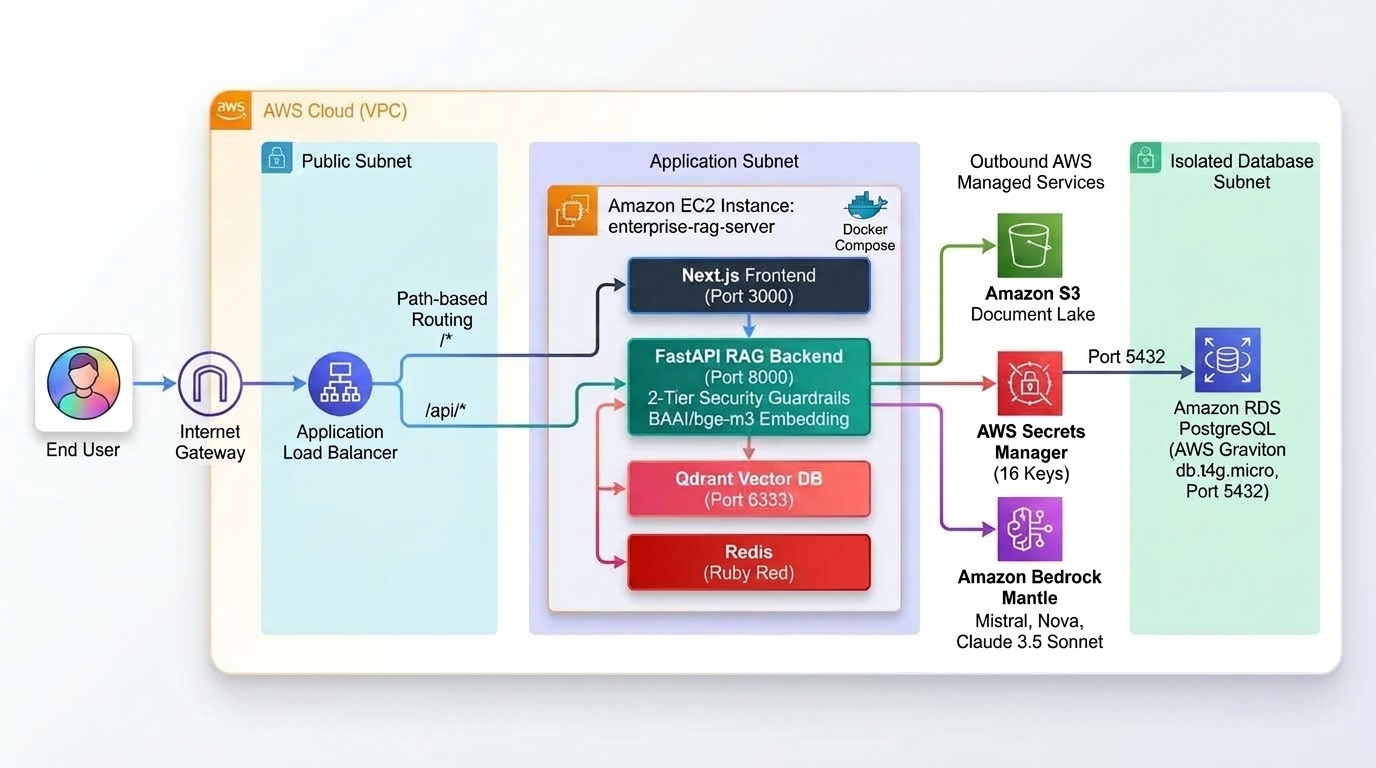
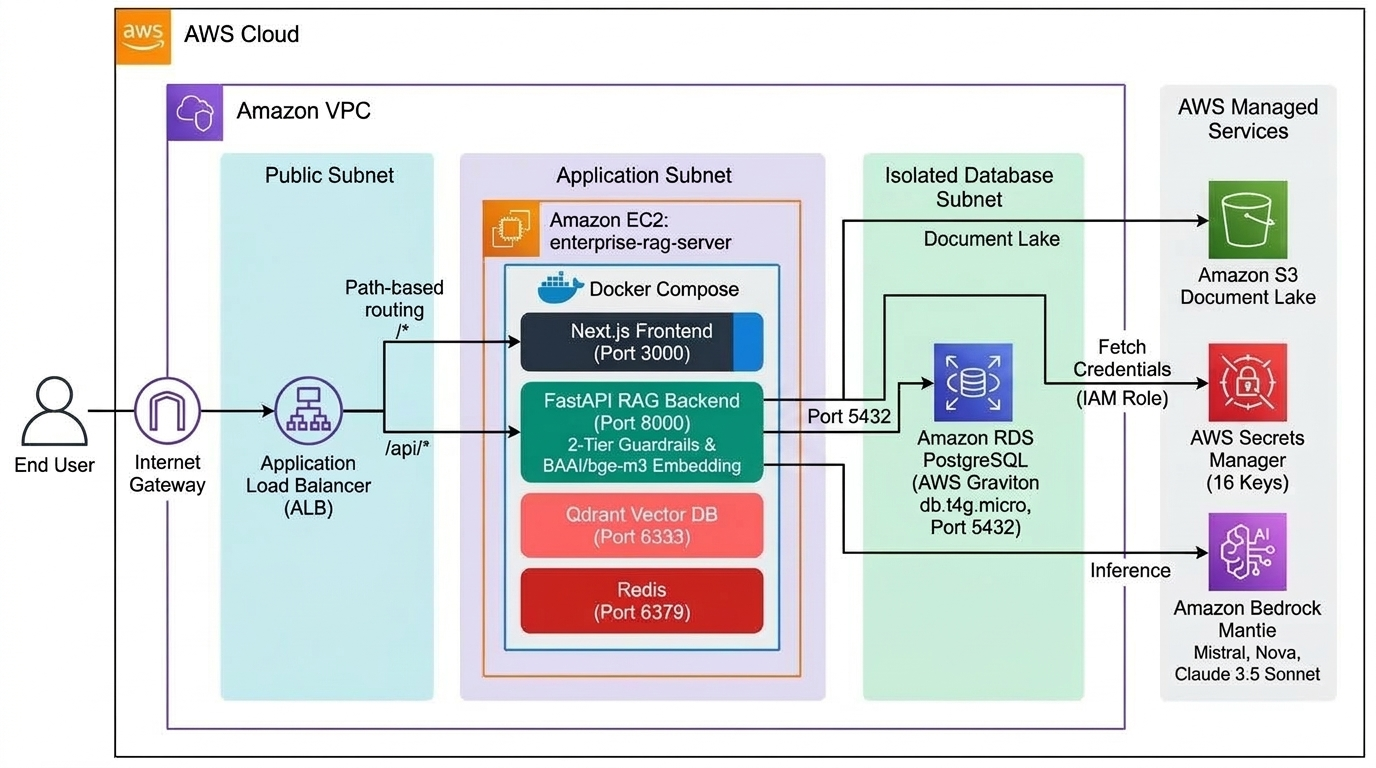
fix(diagram): correct VPC boundaries, separate RDS and Secrets Manager arrows, and align blog text with Qdrant and db.t4g.micro

diff --git a/content/5-Blogs/5.1-rag-enterprise-pipeline/_index.vi.md b/content/5-Blogs/5.1-rag-enterprise-pipeline/_index.vi.md
@@ -20,7 +20,7 @@ pre: " <b> 5.1. </b> "
 
 <div align="center" style="margin: 25px 0;">
   <img src="/images/enterprise_rag_full_architecture.png" alt="Sơ đồ Kiến trúc Đám mây AWS Toàn diện Enterprise RAG" style="width: 100%; max-width: 950px; border-radius: 8px; box-shadow: 0 6px 20px rgba(0,0,0,0.12); border: 1px solid #E2E8F0;" />
-  <p><em>Hình 5.1.1: Sơ đồ Kiến trúc Toàn diện NexusDoc AI: Máy chủ Amazon EC2 (enterprise-rag-server) vận hành Docker Compose (Next.js, FastAPI, Qdrant, Redis), Amazon RDS PostgreSQL (AWS Graviton) trong Isolated Subnet, ALB Path Routing, S3, Secrets Manager (16 Keys) và Amazon Bedrock Mantle</em></p>
+  <p><em>Hình 5.1.1: Sơ đồ Kiến trúc Toàn diện NexusDoc AI: Mạng Amazon VPC phân tầng chuẩn xác, Máy chủ EC2 (enterprise-rag-server) vận hành Docker Compose (Next.js, FastAPI, Qdrant, Redis) trong Application Subnet, Amazon RDS PostgreSQL (AWS Graviton db.t4g.micro) trong Isolated Subnet, kết nối bảo mật tới các dịch vụ AWS Managed Services (S3, Secrets Manager, Bedrock Mantle)</em></p>
 </div>
 
 ---
@@ -34,7 +34,9 @@ pre: " <b> 5.1. </b> "
 > **Vì sao kiến trúc này phù hợp với Enterprise?**
 >
 > ✅ **Dữ liệu nhạy cảm không rời khỏi AWS Cloud:**  
-> Sử dụng kiến trúc Multi-AZ VPC với các phân vùng mạng cô lập. Amazon RDS PostgreSQL và Qdrant Vector DB được đặt hoàn toàn trong Isolated Database Subnet không gắn Internet Gateway, triệt tiêu nguy cơ lộ cổng DB ra Internet. Đội ngũ vận hành truy cập quản trị an toàn thông qua AWS Systems Manager (SSM) Session Manager thay vì mở port SSH truyền thống.
+> Sử dụng kiến trúc Amazon VPC phân tầng mạng cô lập chuẩn chỉnh:
+> * Toàn bộ cụm dịch vụ **Next.js Frontend, FastAPI RAG Backend, Redis và Qdrant Vector DB** được tối ưu hóa đóng gói gọn gàng qua **Docker Compose** trên một máy chủ **Amazon EC2** duy nhất nằm trong **Application Subnet**, giúp tối ưu hóa hiệu năng giao tiếp nội bộ qua loopback/bridge network và tiết kiệm chi phí tối đa.
+> * Riêng cơ sở dữ liệu quan hệ **Amazon RDS PostgreSQL** (chạy trên vi xử lý **AWS Graviton `db.t4g.micro`**, Port 5432) được đặt biệt lập hoàn toàn trong **Isolated Database Subnet** không gắn Internet Gateway, triệt tiêu triệt để nguy cơ lộ cổng DB ra Internet. Đội ngũ vận hành truy cập quản trị an toàn thông qua AWS Systems Manager (SSM) Session Manager thay vì mở port SSH truyền thống.
 >
 > ✅ **Hàng rào phòng thủ 2 lớp (2-Tier Security Guardrails):**  
 > Kiểm soát chặt chẽ an toàn dữ liệu và giảm thiểu tối đa hiện tượng ảo giác (Hallucination):

diff --git a/content/5-Blogs/5.1-rag-enterprise-pipeline/_index.en.md b/content/5-Blogs/5.1-rag-enterprise-pipeline/_index.en.md
@@ -20,7 +20,7 @@ pre: " <b> 5.1. </b> "
 
 <div align="center" style="margin: 25px 0;">
   <img src="/images/enterprise_rag_full_architecture.png" alt="Full Enterprise RAG AWS Cloud Architecture Diagram" style="width: 100%; max-width: 950px; border-radius: 8px; box-shadow: 0 6px 20px rgba(0,0,0,0.12); border: 1px solid #E2E8F0;" />
-  <p><em>Figure 5.1.1: End-to-End NexusDoc AI Architecture: Amazon EC2 Host (enterprise-rag-server) running Docker Compose (Next.js, FastAPI, Qdrant, Redis), Amazon RDS PostgreSQL (AWS Graviton) in Isolated Subnet, ALB Path Routing, S3, Secrets Manager (16 Keys), and Amazon Bedrock Mantle</em></p>
+  <p><em>Figure 5.1.1: End-to-End NexusDoc AI Architecture: Properly segmented Amazon VPC, Amazon EC2 Host (enterprise-rag-server) running Docker Compose (Next.js, FastAPI, Qdrant, Redis) in Application Subnet, Amazon RDS PostgreSQL (AWS Graviton db.t4g.micro) in Isolated Subnet, securely integrating with Outbound AWS Managed Services (S3, Secrets Manager, Bedrock Mantle)</em></p>
 </div>
 
 ---
@@ -34,7 +34,9 @@ pre: " <b> 5.1. </b> "
 > **Why is this architecture ideal for Enterprises?**
 >
 > ✅ **Sensitive Data Never Leaves AWS Cloud:**  
-> Engineered with a Multi-AZ VPC across isolated subnet tiers. Amazon RDS PostgreSQL and Qdrant Vector DB reside strictly within an Isolated Database Subnet without an Internet Gateway, eliminating public database exposure. Engineering teams administer databases securely via AWS Systems Manager (SSM) Session Manager rather than open SSH ports.
+> Engineered with a rigorously segmented Amazon VPC:
+> * The entire microservices stack — **Next.js Frontend, FastAPI RAG Backend, Redis, and Qdrant Vector DB** — is neatly packaged and optimized via **Docker Compose** on a single **Amazon EC2** host residing in the **Application Subnet**, maximizing local bridge network throughput while minimizing idle compute costs.
+> * The relational database **Amazon RDS PostgreSQL** (powered by **AWS Graviton `db.t4g.micro`**, Port 5432) is deployed strictly within an **Isolated Database Subnet** without an Internet Gateway, completely eliminating database public exposure. Engineering teams administer databases securely via AWS Systems Manager (SSM) Session Manager rather than open SSH ports.
 >
 > ✅ **2-Tier Security Guardrails:**  
 > Rigorous data protection and zero hallucination enforcement:
